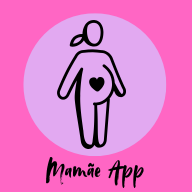
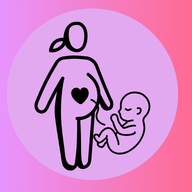
Icones atualizados: mamae gravida + bebe ao lado
- icon-512.png: mamae + bebe + texto "Mamae App" (para Play Store)
- icon-192.png: mamae + bebe sem texto (para celular)
- Arte profissional da Ana Jessica

diff --git a/sw.js b/sw.js
@@ -1,6 +1,6 @@
 // AUDIT V1.2 [V12-SEC-004]: Cache apenas recursos do proprio origin.
 // CDNs protegidos por SRI no HTML — nao precisam de cache local.
-var CACHE_NAME = 'mamae-app-v2';
+var CACHE_NAME = 'mamae-app-v3';
 var ASSETS_TO_CACHE = [
     './',
     './index.html',
